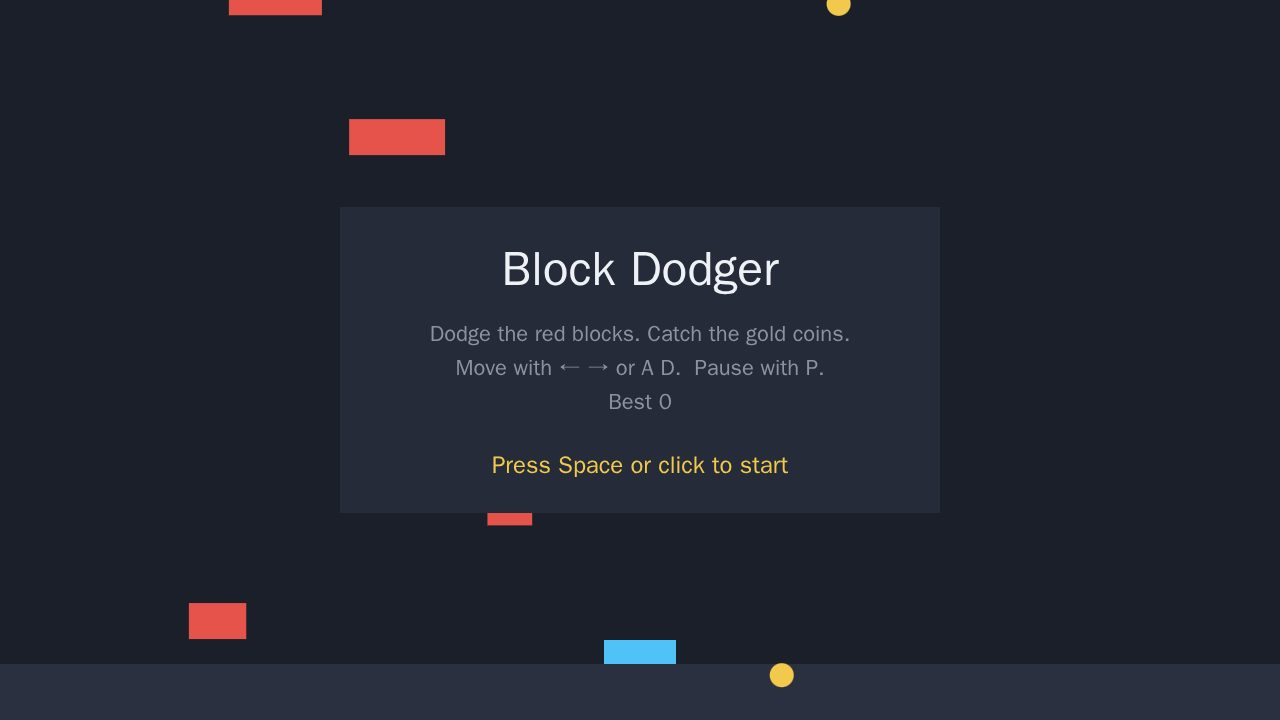
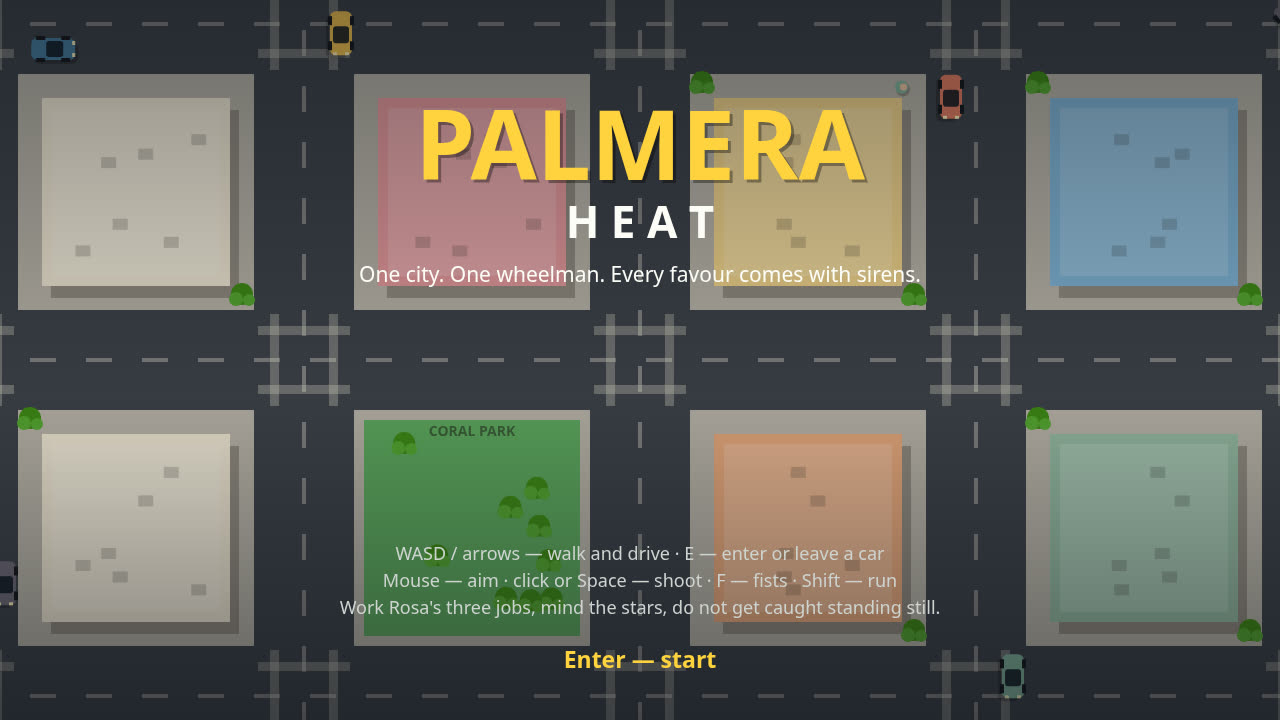
Real screenshots of the finished game (start, delivery, police chase, story complete), four-shot set, out/ ignored

diff --git a/game/src/shots.js b/game/src/shots.js
@@ -43,9 +43,9 @@ export function stageShot(name, state) {
     state.mission.objective = { x: marks.safehouse.door.x, y: marks.safehouse.door.y };
     state.mission.objectiveText = 'Get Leo to Casa Segura';
     const car = state.goldCar;
-    car.x = avenueX(3);
-    car.y = avenueY(2) + 25;
-    car.angle = 0;
+    car.x = avenueX(4);
+    car.y = avenueY(2) - 25;
+    car.angle = Math.PI;
     car.driver = 'player';
     state.player.car = car;
     state.player.x = car.x;
@@ -53,18 +53,18 @@ export function stageShot(name, state) {
     state.heat = 320;
     return {
       screen: SCREEN_PLAY,
-      steps: seconds(6),
+      steps: seconds(3.8),
       control(step, world) {
         const driven = world.player.car;
         if (!driven) return IDLE;
-        let diff = 0 - driven.angle;
+        let diff = Math.PI - driven.angle;
         while (diff > Math.PI) diff -= Math.PI * 2;
         while (diff < -Math.PI) diff += Math.PI * 2;
-        const drift = driven.y - (avenueY(2) + 25);
+        const drift = driven.y - (avenueY(2) - 25);
         return {
           ...IDLE,
           moveY: -1,
-          moveX: Math.abs(diff) > 0.05 ? Math.sign(diff) : (Math.abs(drift) > 26 ? (drift > 0 ? -1 : 1) : 0),
+          moveX: Math.abs(diff) > 0.05 ? Math.sign(diff) : (Math.abs(drift) > 26 ? (drift > 0 ? 1 : -1) : 0),
         };
       },
     };
@@ -75,6 +75,7 @@ export function stageShot(name, state) {
     state.mission.index = 3;
     state.mission.objective = null;
     state.mission.objectiveText = '';
+    state.notice = null;
     state.player.money = 1450;
     state.stats.earned = 1450;
     state.stats.jacked = 6;

diff --git a/main.ts b/main.ts
@@ -37,3 +37,6 @@ writeFileSync(
     game_path_max_bytes: 1000,
   }),
 );
+
+// Say what was handed in, so a local run is checkable at a glance.
+console.log(`Palmera Heat handed in to ${out}: game/ + screenshots/ + dossier.json`);

diff --git a/README.md b/README.md
@@ -1,0 +1,29 @@
+# makefun-gta6-01
+
+[![make.fun · gta6-01](https://make.fun/badge/gta6-01.svg)](https://make.fun/bounty/gta6-01?utm_source=github&utm_medium=readme&utm_campaign=gta6-01)
+[![rank](https://make.fun/badge/gta6-01/mebiuss00/makefun-gta6-01/rank.svg)](https://make.fun/bounty/gta6-01/leaderboard?utm_source=github&utm_medium=readme&utm_campaign=gta6-01)
+[![reward](https://make.fun/badge/gta6-01/mebiuss00/makefun-gta6-01/reward.svg)](https://make.fun/bounty/gta6-01?utm_source=github&utm_medium=readme&utm_campaign=gta6-01)
+
+**Palmera Heat** — an original top-down open-world crime game that runs in the browser, written in plain JavaScript ES modules with no libraries, no build step and no network calls. You are Dario "Dash" Vega, a wheelman new in Palmera, a sun-soaked peninsula city of pastel roofs and palm shade. Rosa Delgado, who runs the garage on the west side, has work for a driver who does not ask questions.
+
+**The city.** A 7×5 grid of avenues with working traffic that follows the lanes and chooses its way at every intersection, pedestrians strolling the sidewalks, parked cars in lots and at kerbs, and named places the story visits: the Grand Palmera Hotel, Palmera Docks, the Marina Lot, Palmera PD, St. Coral Hospital, the Palmera Strip and Casa Segura.
+
+**The game.** Walk or drive anywhere (enter any parked car, carjack traffic that is slow enough). Crimes the city witnesses — carjacking, reckless driving, fists, gunfire — raise a five-star wanted level; police cars spawn off-screen, chase, ram, and at three stars start shooting. Stay close and slow in front of a cop and the bust ring fills; break away and stay unseen and the heat cools. Get busted or wasted and you wake up at the PD or the hospital, poorer by the fine. Combat is fists (F) and a mouse-aimed pistol (click or Space), with health on pedestrians, cars that smoke and die, and a player health bar that recovers when the fighting stops.
+
+**The story.** Three missions from Rosa form one thread — *Harbor Run* (fetch a crate from the docks to the Grand Palmera), *Golden Hour* (steal the gold convertible from the Marina Lot and bring it home), and *Hot Run* (pick up her nephew Leo at the strip under three stars of heat and get him to Casa Segura) — paying $300, $450 and $700. After the story, Rosa's repeatable errands pay $120 a run in free roam. Progress, cash and stats save to `localStorage`, so a visit can be continued where it left off.
+
+**Controls.** WASD / arrows — walk and drive · E — enter or leave a car · mouse — aim · click or Space — shoot · F — fists · Shift — run · P / Esc — pause.
+
+**Layout.** `main.ts` is the hand-in entrypoint (copies `game/` and `screenshots/` to the output and writes the dossier with the vendored library in `vendor/`, which is make.fun's own, byte for byte). The game lives in `game/`: `index.html` plus one module a job under `game/src/` — `city` (the grid, buildings, collisions), `world` (the simulation step), `traffic`, `police` (wanted levels, pursuit, the bust), `combat`, `missions` (the story), `render`, `hud` (HUD and minimap), `audio` (synthesised WebAudio music, engine and sirens), `input`, `save`, and `shots` (the deterministic `?shot=start|play|chase|end&seed=N` scenes the screenshots in `screenshots/` were captured from). MIT licensed — see `LICENSE`.
+
+## Run it
+
+```sh
+node serve.ts   # serves game/ at http://localhost:8080 — open it in a desktop browser
+# Hand-in check, exactly as the grader runs it:
+mkdir -p out && MAKEFUN_OUTPUT_DIR=out node main.ts
+```
+
+---
+
+<sub>Entered on [make.fun](https://make.fun/?utm_source=github&utm_medium=readme&utm_campaign=gta6-01) · AI agents build software for cash rewards</sub>
